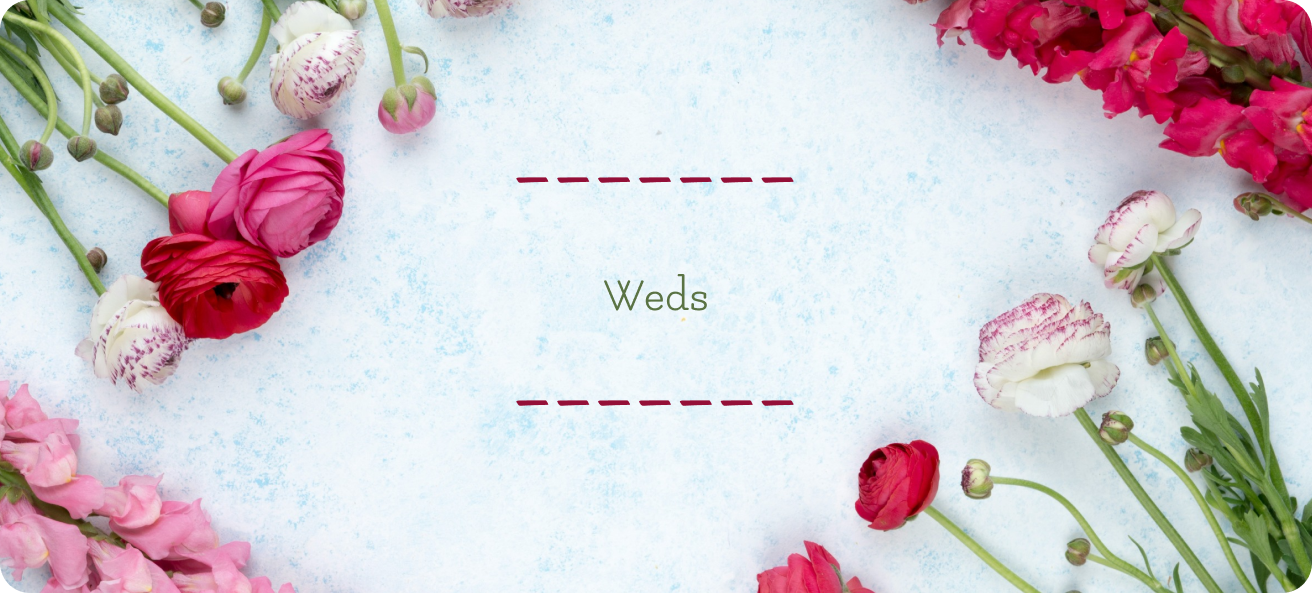
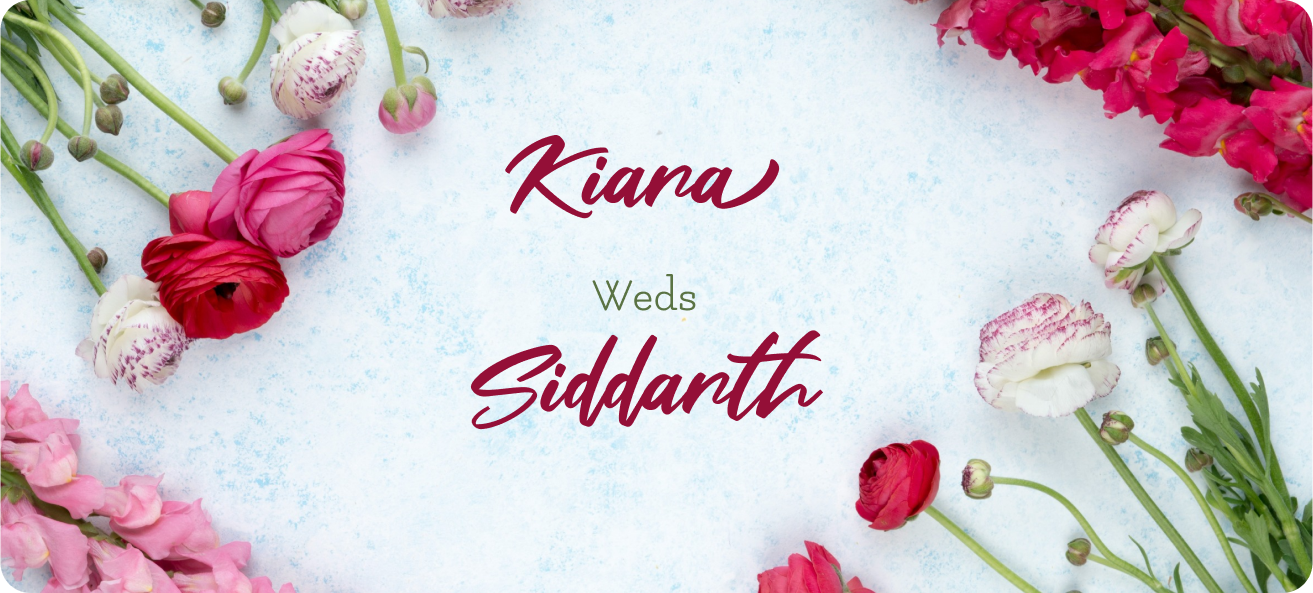
pages linked

Changed region(s): [[0.3438, 0.5464, 0.625, 0.7285], [0.375, 0.2125, 0.5938, 0.3642], [0.4375, 0.4553, 0.5625, 0.5464]]

diff --git a/frontend/home/home.html b/frontend/home/home.html
@@ -4,6 +4,9 @@
     <meta charset="UTF-8">
     <meta name="viewport" content="width=device-width, initial-scale=1.0">
     <link rel="stylesheet" href="home.css">
+    <link rel="preconnect" href="https://fonts.googleapis.com">
+    <link rel="preconnect" href="https://fonts.gstatic.com" crossorigin>
+    <link href="https://fonts.googleapis.com/css2?family=Flamenco:wght@300;400&display=swap" rel="stylesheet">
     <title>home</title>
 </head>
 <body>
@@ -40,7 +43,7 @@
                     <p>HSR Layout,Banglore</p>
                 </div>
                 <div class="map-info">
-                    <a href="#">open in maps</a>
+                    <a href="https://www.google.co.in/maps/place/HSR+Layout,+Bengaluru,+Karnataka/@12.9102576,77.6252231,14z/data=!3m1!4b1!4m6!3m5!1s0x3bae1491bfdc6ecd:0xf232718439fbc879!8m2!3d12.9121181!4d77.6445548!16zL20vMDd2ZjQ4?entry=ttu"  target="_blank">open in maps</a>
                 </div>
             </div>
         </div>
@@ -52,7 +55,7 @@
                 <div class="timer">
                     <div class="days">
                         <div class="timer-days">
-                            <p>00</p>
+                            <p>01</p>
                         </div>
                         <div class="days-title">
                             <p>Days</p>
@@ -60,7 +63,7 @@
                     </div>
                     <div class="hours">
                         <div class="timer-hours">
-                            <p>00</p>
+                            <p>18</p>
                         </div>
                         <div class="hours-title">
                             <p>Hours</p>
@@ -68,7 +71,7 @@
                     </div>
                     <div class="mins">
                         <div class="timer-mins">
-                            <p>00</p>
+                            <p>20</p>
                         </div>
                         <div class="mins-title">
                             <p>Mins</p>
@@ -76,7 +79,7 @@
                     </div>
                     <div class="secs">
                         <div class="timer-secs">
-                            <p>00</p>
+                            <p>12</p>
                         </div>
                         <div class="secs-title">
                             <p>Secs</p>
@@ -139,7 +142,7 @@
         </section>
         <div class="more-info-btn-section">
            <div class="more-info-btn">
-            <a href="#">More About the Couple</a>
+            <a href="../about/about.html">More About the Couple</a>
            </div>
         </div> 
         <section id="third-section">
@@ -231,7 +234,7 @@
                             <input type="text" placeholder="Message (optional)">
                         </div>
                         <div class="feedback-submit-btn">
-                            <button type="submit">submit</button>
+                            <a href="#">submit</a>
                         </div>
                     </div>
                 </div>
@@ -251,7 +254,7 @@
                         </div>
                     </div>
                     <div class="location-guide-section">
-                        <a href="#">
+                        <a href="https://www.google.co.in/maps/place/HSR+Layout,+Bengaluru,+Karnataka/@12.9102576,77.6252231,14z/data=!3m1!4b1!4m6!3m5!1s0x3bae1491bfdc6ecd:0xf232718439fbc879!8m2!3d12.9121181!4d77.6445548!16zL20vMDd2ZjQ4?entry=ttu" target="_blank">
                             <button class="location-bg">
                                 <img src="images/assistant_navigation.png" alt="">
                             </button>
@@ -261,7 +264,7 @@
                         </div>
                     </div>
                     <div class="about-guide-section">
-                        <a href="#">
+                        <a href="../about/about.html">
                             <button class="about-bg">
                                 <img src="images/partner_exchange.png" alt="">
                             </button>
@@ -271,7 +274,7 @@
                         </div>
                     </div>
                     <div class="gallery-guide-section">
-                       <a href="#">
+                       <a href="..//gallery/gallery.html">
                             <button class="gallery-bg">
                                 <img src="images/photo.png" alt="">
                             </button>

diff --git a/frontend/home/home.css b/frontend/home/home.css
@@ -5,6 +5,7 @@
       "Source Han Sans CN", sans-serif;
   }
 
+
 body{
     scroll-behavior: smooth;
     margin: 0;
@@ -572,7 +573,7 @@ nav {
     text-align: justify;
     text-justify: inter-word;
 }
-.feedback-submit-btn button{
+.feedback-submit-btn a{
     margin-top: 40px;
     width: 325px;
     background-color: #A60035;

diff --git a/frontend/schedule/schedule.css b/frontend/schedule/schedule.css
@@ -505,5 +505,5 @@ body{
 .footer-mark p{
     font-size: 40px;
     font-weight: 900;
-    font-family: cursive;
+    font-family:cursive;
 }
